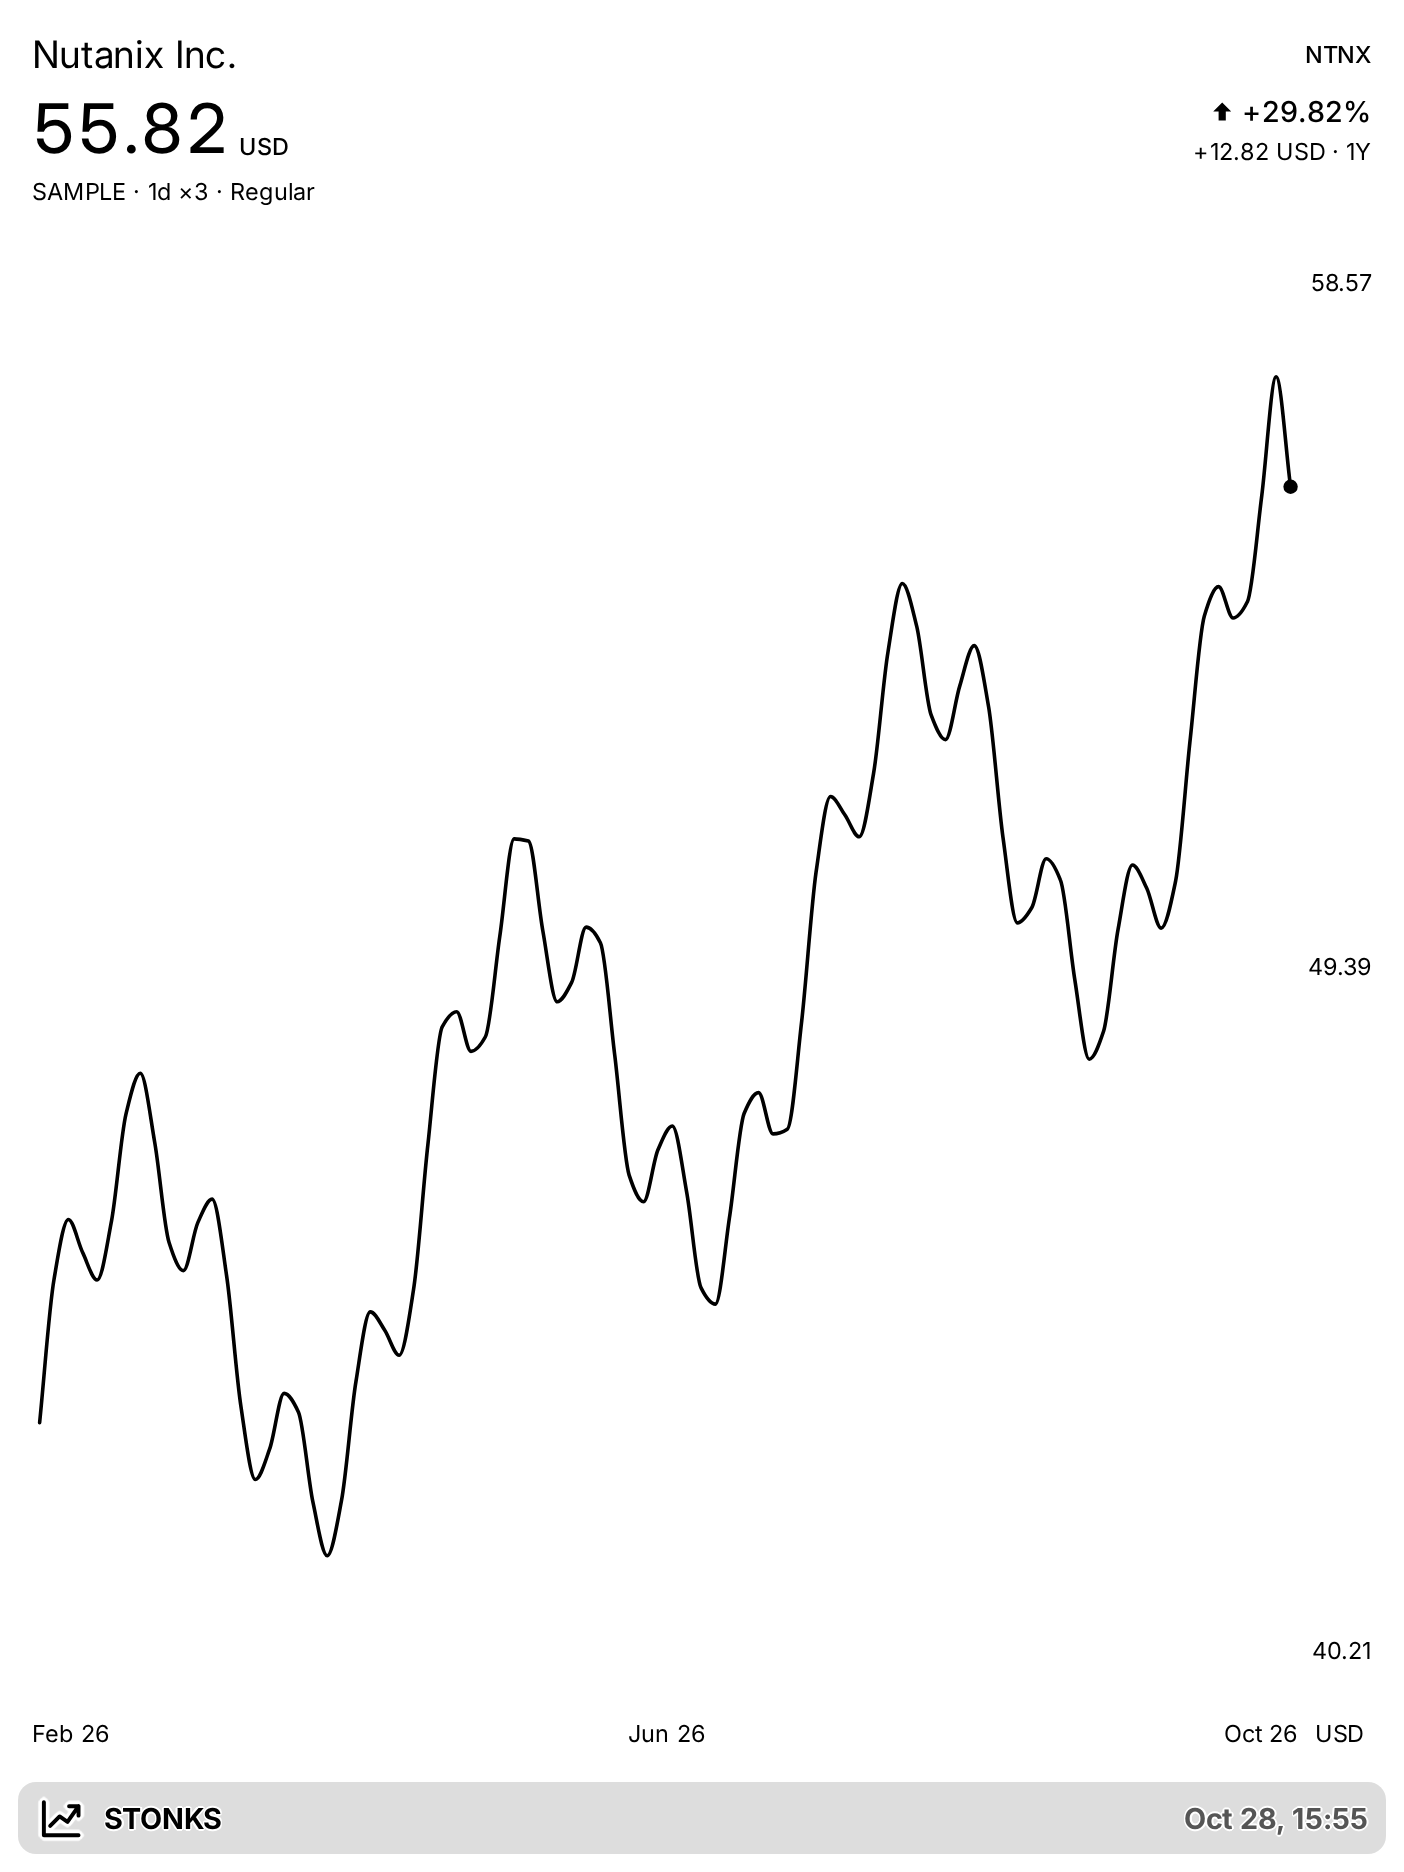
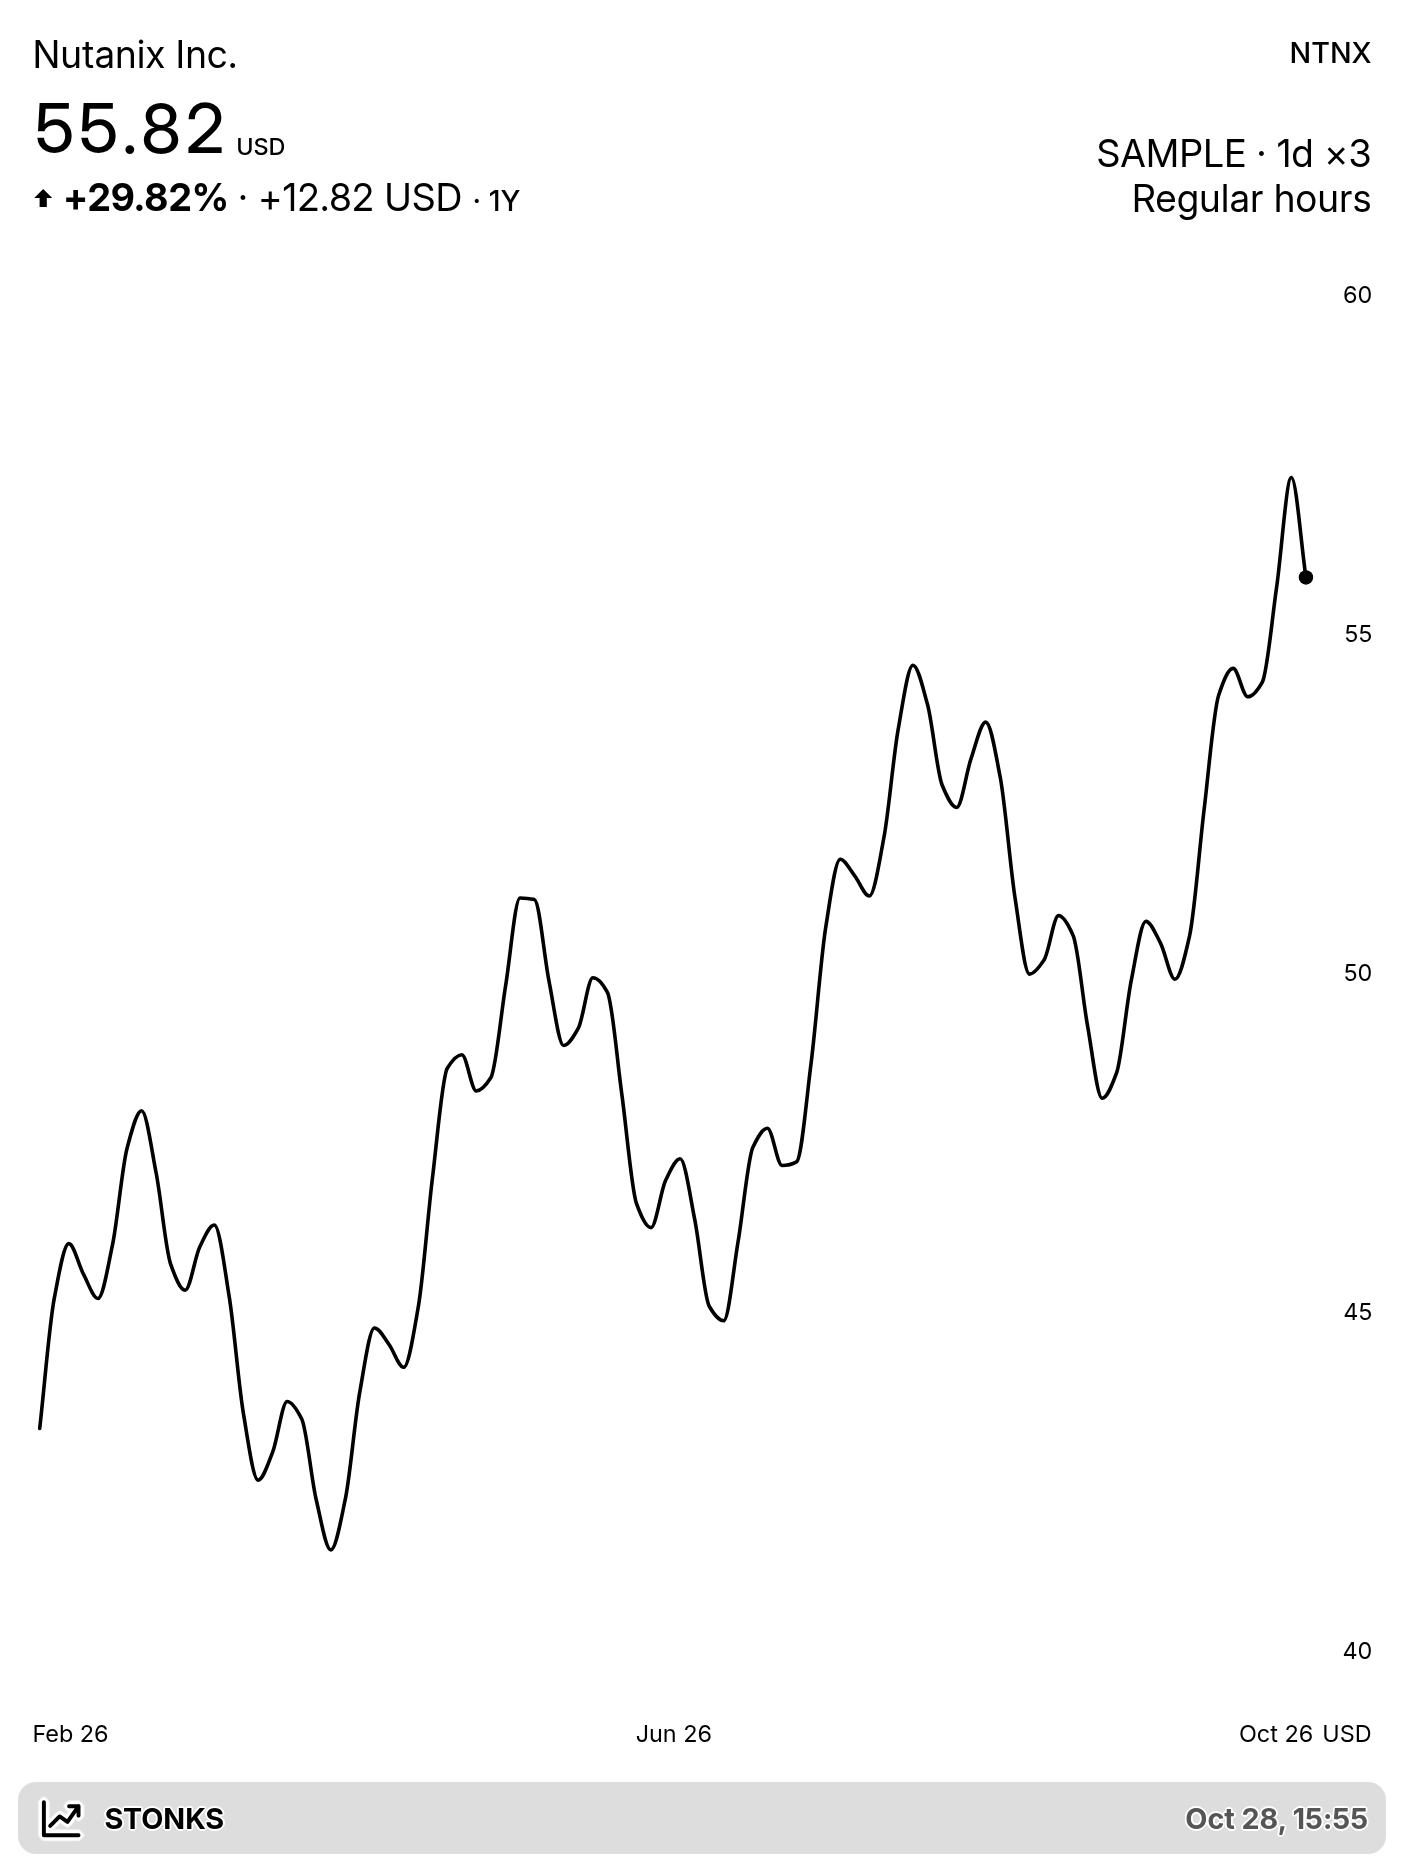
fix: use rounded responsive price axis levels

diff --git a/TRMNL/src/transform.js b/TRMNL/src/transform.js
@@ -286,7 +286,7 @@ function curveSegments(points) {
   return segments;
 }
 
-function chart(state, config, formatNumber, limit = 96, displayTimezone = state.timezone) {
+function chart(state, config, limit = 96, displayTimezone = state.timezone) {
   const factor = config.chartType !== 'line' && state.bars.some(b => b[1] !== null) ? Math.max(1, Math.ceil(state.bars.length / limit)) : 1;
   if (factor > 1) {
     const bars = [];
@@ -299,7 +299,17 @@ function chart(state, config, formatNumber, limit = 96, displayTimezone = state.
   if (config.reference) values.push(state.baseline);
   const low = Math.min(...values), high = Math.max(...values);
   const padding = Math.max((high - low) * 0.08, high * 0.005, 1e-9);
-  const min = Math.max(0, low - padding), max = high + padding;
+  const paddedMin = Math.max(0, low - padding), paddedMax = high + padding;
+  const roughStep = (paddedMax - paddedMin) / 5;
+  const magnitude = 10 ** Math.floor(Math.log10(roughStep));
+  const step = [1, 2, 5, 10].find(n => n * magnitude >= roughStep) * magnitude;
+  const min = Math.floor(paddedMin / step) * step;
+  // Four or six intervals give short charts three evenly spaced major labels.
+  const intervals = Math.max(4, Math.ceil((paddedMax - min) / step / 2 - 1e-10) * 2);
+  const max = min + intervals * step;
+  const axisNumber = new Intl.NumberFormat(LOCALES[config.locale], {
+    maximumFractionDigits: Math.max(0, -Math.floor(Math.log10(step)))
+  });
   const hasVolume = config.volume && state.bars.some(b => b[5] !== null && b[5] > 0);
   const bottom = hasVolume ? 216 : PLOT.bottom;
   const y = p => bottom - (p - min) / (max - min) * (bottom - PLOT.top);
@@ -327,7 +337,10 @@ function chart(state, config, formatNumber, limit = 96, displayTimezone = state.
     curves: !candles && config.lineType === '2' ? curveSegments(points) : [], candles: candlePoints, volumes,
     body_width: f(width), volume_width: width,
     reference_y: y(state.baseline), last_y: points.at(-1).y,
-    ticks: [0, 0.5, 1].map(r => ({ y: PLOT.top + r * (bottom - PLOT.top), label: formatNumber(max - r * (max - min)) })), dates,
+    ticks: Array.from({ length: intervals + 1 }, (_, i) => ({
+      y: PLOT.top + i / intervals * (bottom - PLOT.top),
+      label: axisNumber.format(min + (intervals - i) * step), detail: i % (intervals / 2) !== 0, middle: i === intervals / 2
+    })), dates,
     has_ohlc: hasOHLC, has_volume: hasVolume, group: state.group };
 }
 
@@ -347,7 +360,7 @@ function display(state, stale, detail, config, displayTimezone = state?.timezone
   });
   const change = state.price - state.baseline;
   const percent = change / state.baseline * 100;
-  const result = { ...base, ...chart(state, config, formatter.format, 96, displayTimezone), has_data: true, stale, detail, name: state.name, currency: state.currency,
+  const result = { ...base, ...chart(state, config, 96, displayTimezone), has_data: true, stale, detail, name: state.name, currency: state.currency,
     price: state.price, change, percent, digits,
     price_label: formatter.format(state.price),
     // The baseline is drawn as its own line, so it needs its own label.
@@ -358,8 +371,8 @@ function display(state, stale, detail, config, displayTimezone = state?.timezone
     native_currency: state.native_currency, return_basis: state.return_basis,
     fx_iso: state.fx_at ? new Date(state.fx_at * 1000).toISOString() : '' };
   if (config.chartType !== 'line' && result.has_ohlc) result.charts = {
-    compact: { ...result, ...chart(state, config, formatter.format, 32, displayTimezone) },
-    detailed: { ...result, ...chart(state, config, formatter.format, 192, displayTimezone) }
+    compact: { ...result, ...chart(state, config, 32, displayTimezone) },
+    detailed: { ...result, ...chart(state, config, 192, displayTimezone) }
   };
   return result;
 }

diff --git a/TRMNL/README.md b/TRMNL/README.md
@@ -65,6 +65,8 @@ Changing the list or clearing Saved State restarts at the first entry. Rotation 
 
 Candles and OHLC bars adapt to the space left after the heading and quote. Chart areas at most 460 CSS px wide or 160 CSS px high use up to 32 bars; other areas use up to 96, rising to 192 when at least 900 × 400 CSS px are available. These are rendered chart-area dimensions, not device names or physical panel pixels. Larger X slots retain more detail while narrow portrait slots can still use the compact chart.
 
+The price axis uses five to seven rounded levels, reduced to three when the chart is at most 200 CSS px high, or two with Large labels when the chart is at most 80 CSS px high. Whole numbers are used where the price range allows; narrow ranges and small prices retain the decimals needed to distinguish levels. The Decimal places setting still controls the quote and return amounts.
+
 Grouping keeps the whole date range: first open, highest high, lowest low, last close and summed volume. The visible `×N` label reports the grouping actually drawn. Saved history, latest price and return stay unchanged. Candle outlines and OHLC strokes are 1 px; the Line width setting applies to line charts.
 
 ## Templates
